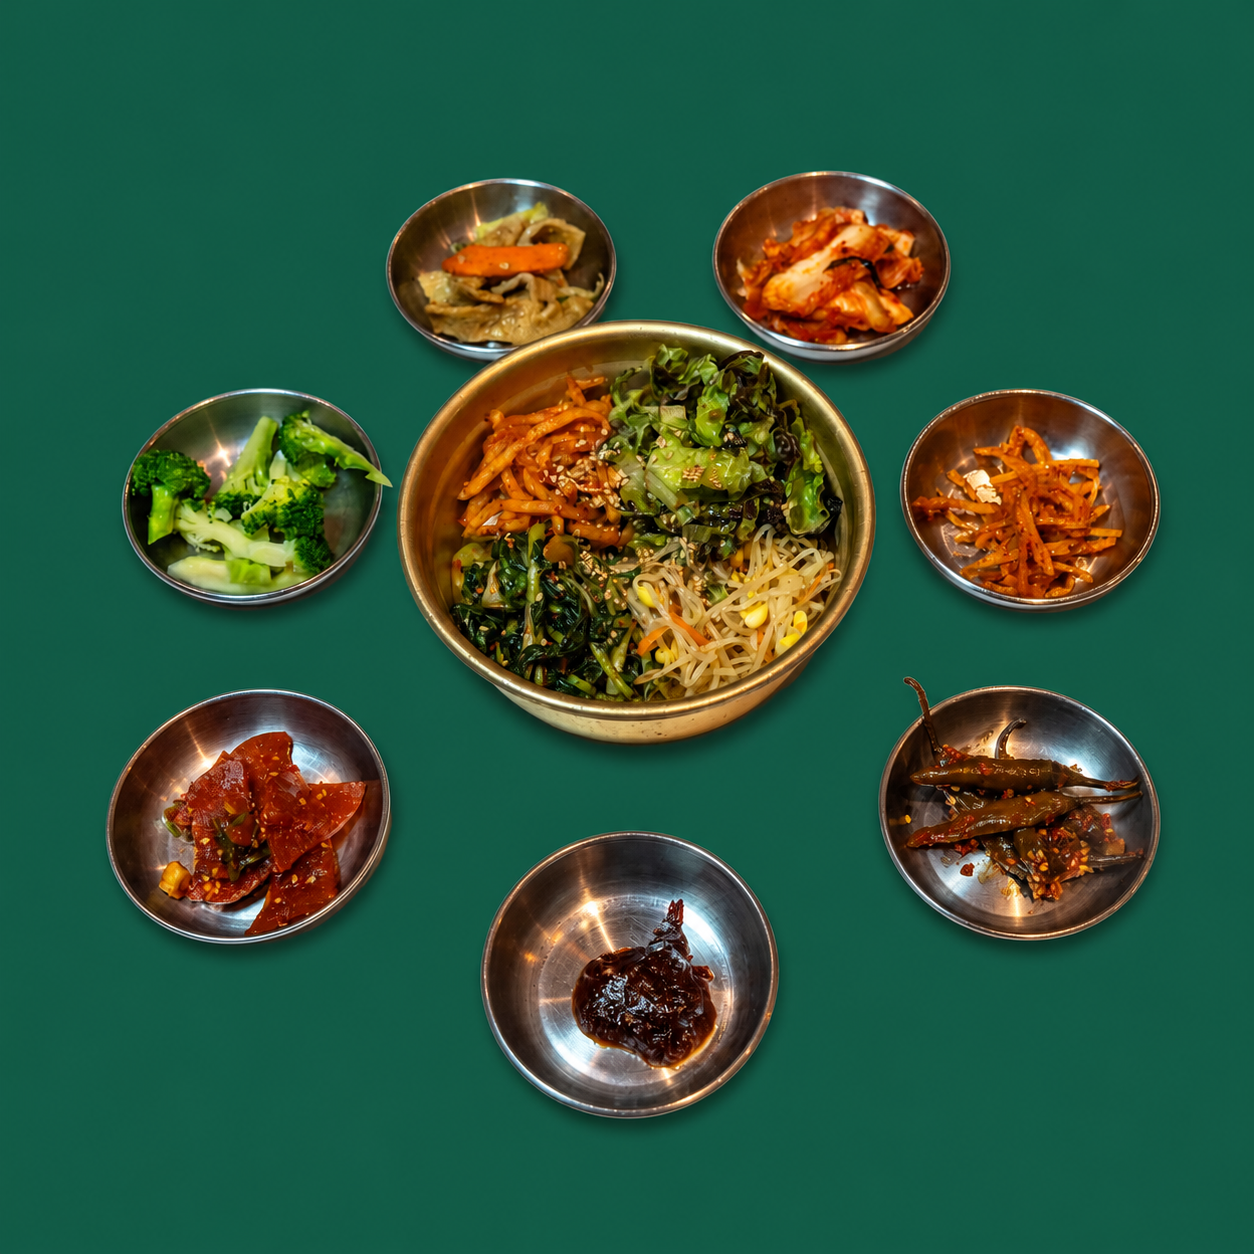
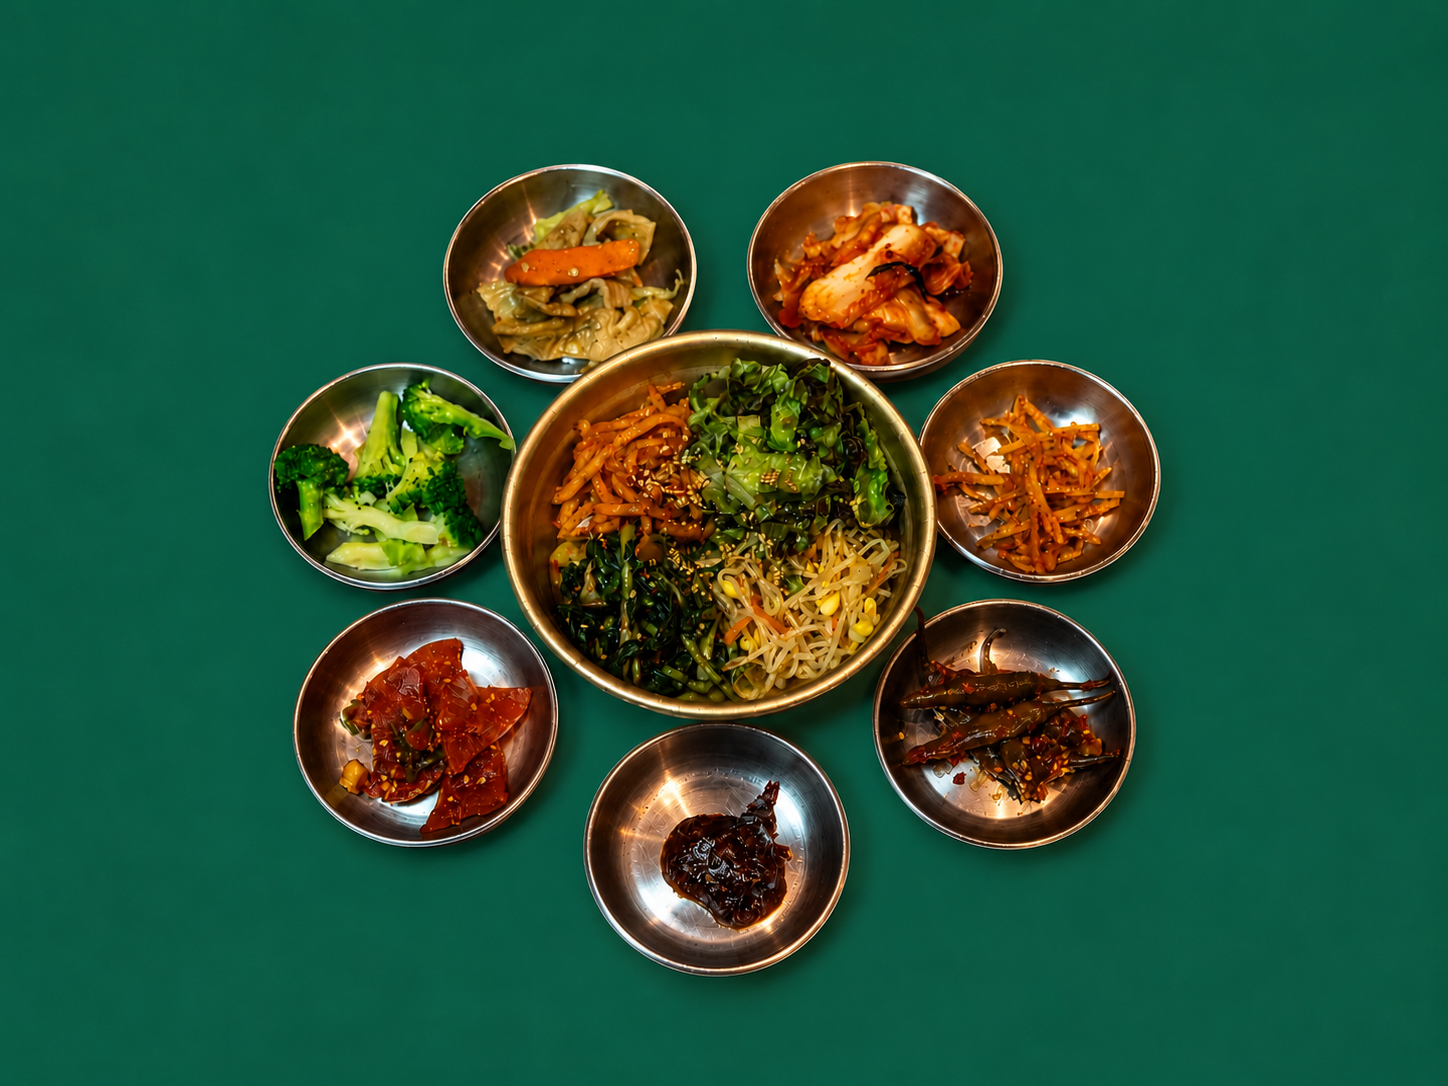
낙지볶음 · 비빔밥 사진을 한상 차림 컷으로 교체
두 메뉴 다 반찬까지 차려낸 새 촬영본을 받았습니다. 밑반찬이 함께 보여
실제로 받으시는 상차림에 가깝습니다.

사진 처리
  이 두 장은 이미 4:3으로 찍혀 왔습니다. 지금까지는 정사각 원본을 4:3에
  맞추느라 배경색으로 여백을 채웠는데, 여기에 그대로 태우니 사진가가 잡아둔
  위아래 여백까지 깎여 답답해졌습니다. 원하는 비율로 이미 찍혀 온 사진은
  크기만 줄이도록 했습니다. 기존 사진 결과물은 바뀌지 않습니다.
  낙지볶음에 걸어둔 90도 회전도 뺐습니다 — 새 사진은 바로 서 있습니다.

이전 원본은 지우지 않고 _retouched 에 -prev 로 남겨뒀습니다.

diff --git a/tools/build_food_photos.py b/tools/build_food_photos.py
@@ -43,7 +43,7 @@ MAP = {
     # 파일명이 「김치찌개」로 왔지만 실제로는 국물떡볶이입니다 (사업주 확인)
     "tteokbokki.jpg":   ("식사준비", "tteokbokki"),
     # 비스듬히 찍은 두 번째 컷(tteokbokki-2)은 사업주 요청으로 뺐습니다
-    "nakji.jpg":    ("식사준비", "nakji", 90),   # 시계 방향 90도
+    "nakji.jpg":    ("식사준비", "nakji"),   # 3차 교체본 — 이미 바로 서 있어 회전 없음
     "bibimbap.jpg": ("식사준비", "bibimbap"),
     "donkatsu.jpg": ("식사준비", "donkatsu"),
     "naengmyeon.jpg": ("식사준비", "naengmyeon"),
@@ -90,6 +90,11 @@ def fit_on_background(im: Image.Image, ratio: float, width: int,
     """
     im = im.convert("RGB")
     W, H = im.size
+
+    # 이미 원하는 비율로 찍혀 온 사진은 손대지 않습니다. 사진가가 잡은
+    # 여백이 곧 구도라, 다시 재보고 가운데로 옮기면 오히려 답답해집니다.
+    if abs(W / H - ratio) < 0.02:
+        return im.resize((width, round(width / ratio)), Image.LANCZOS)
 
     # ① 네 귀퉁이에서 배경색을 읽습니다
     s = im.resize((240, max(1, round(240 * H / W))))
